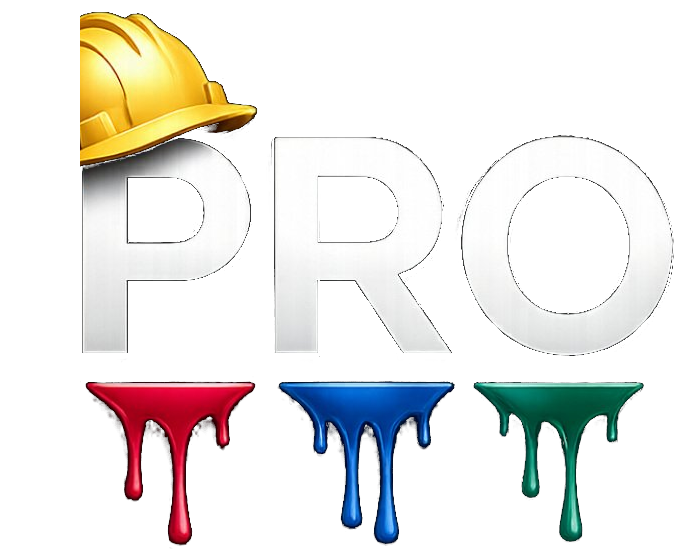
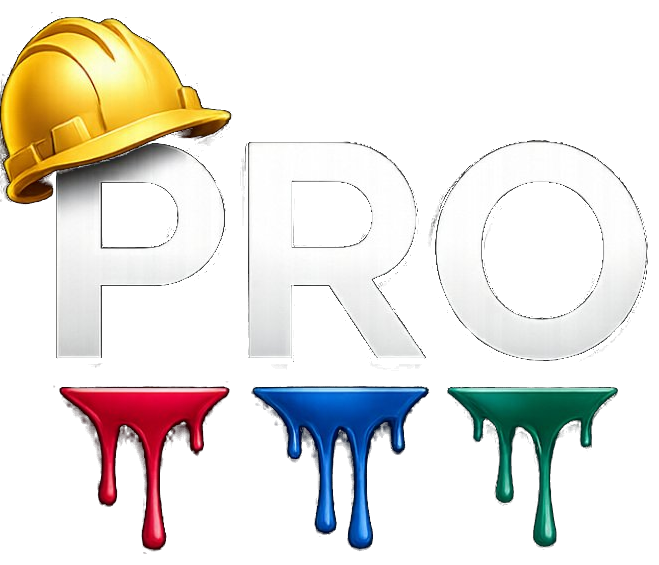
fix: helmet actually re-cropped, the previous attempt padded a broken asset
The real issue wasn't clipping at the canvas edge — the pro_only.png
crop itself had a genuine hole in the helmet artwork (missing a chunk
of its left side), which no amount of padding could fix. Re-cropped
"PRO" + helmet + drips directly from the master wordmark, which has
the complete, undamaged helmet, and adjusted the SizedBox width to
match the new crop's aspect ratio.

diff --git a/lib/splash_screen.dart b/lib/splash_screen.dart
@@ -187,7 +187,7 @@ class _SplashScreenState extends State<SplashScreen>
                               Padding(
                                 padding: const EdgeInsets.only(left: 4, bottom: 4),
                                 child: SizedBox(
-                                  width: 110,
+                                  width: 105,
                                   height: 90,
                                   child: Stack(
                                     clipBehavior: Clip.none,
